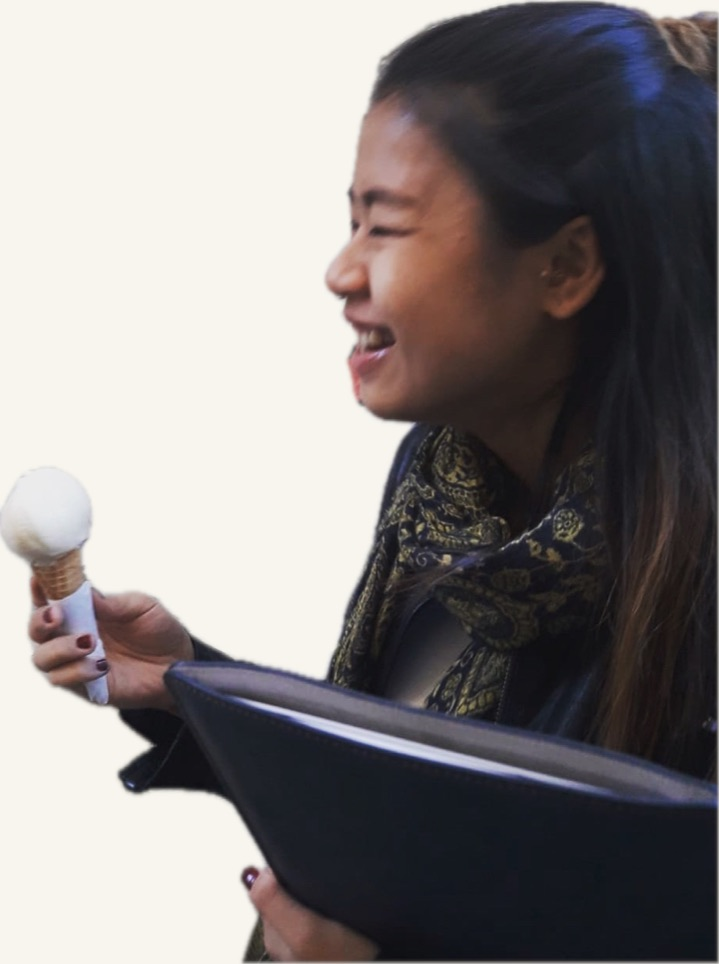
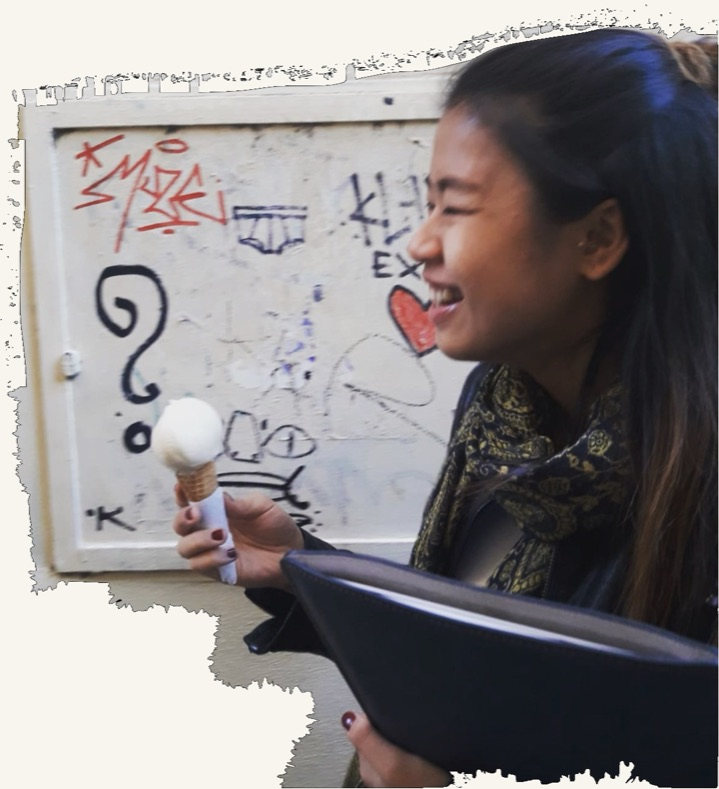
feat(about): use Echo's torn-edge cut of the hero, and her heading
She cut the photograph herself with a torn edge, which is a better answer
than the radial fade and speaks the language the rest of the page already
uses: paper, tape, nothing rectangular.

Keying it needed scripts/floodkey.swift rather than a threshold. Her cut
arrives as black around the torn shape, and her hair and the dark bag are as
black as that surround, so a global luminance key punched holes straight
through both. Flooding IN from the border only clears dark pixels connected
to the outside, which leaves an enclosed dark region alone. Threshold 16:
at 42 it still ate the hair, because hair is not quite black but is close.

Composited onto this page's ground and shipped as a JPEG, 102KB. The page
holds one cream in both themes by design, so there is nothing to show
through and the alpha is not worth 600KB.

The heading is hers: "Behind the screen and matrix", capitalised and stopped
to match the page and otherwise untouched. It replaced the only place 2012
appeared, so that date moved into the first paragraph rather than leaving
the page with the sentence.

Two things removed on her call: the photograph's caption, since it is not
evidence of anything and does not need dating, and the rule above the
closing block, which was the one hard edge on a page built out of torn ones.

Claude-Session: https://claude.ai/code/session_01QGgfN5cZWKRdSW6FQvQch3

diff --git a/scripts/floodkey.swift b/scripts/floodkey.swift
@@ -1,0 +1,67 @@
+// Key a border colour to transparent by flooding IN from the edges, rather
+// than by thresholding the whole image.
+//
+// A global luminance key would work on the surround here but would also eat
+// her hair and the dark bag, which are as black as the background. Flooding
+// from the border only removes dark pixels CONNECTED to the outside, so an
+// enclosed dark region inside the torn edge is untouched.
+import Foundation
+import CoreGraphics
+import ImageIO
+import UniformTypeIdentifiers
+
+let args = CommandLine.arguments
+guard args.count >= 4 else {
+    FileHandle.standardError.write("usage: floodkey <in> <out.png> <threshold 0-255>\n".data(using: .utf8)!)
+    exit(2)
+}
+let threshold = Int(args[3]) ?? 40
+
+guard let srcData = CFDataCreate(nil, [UInt8](try Data(contentsOf: URL(fileURLWithPath: args[1]))), (try Data(contentsOf: URL(fileURLWithPath: args[1]))).count),
+      let provider = CGDataProvider(data: srcData),
+      let src = CGImage(jpegDataProviderSource: provider, decode: nil, shouldInterpolate: false, intent: .defaultIntent)
+        ?? CGImage(pngDataProviderSource: provider, decode: nil, shouldInterpolate: false, intent: .defaultIntent) else {
+    FileHandle.standardError.write("cannot decode\n".data(using: .utf8)!); exit(1)
+}
+
+let w = src.width, h = src.height
+var px = [UInt8](repeating: 0, count: w * h * 4)
+guard let ctx = CGContext(data: &px, width: w, height: h, bitsPerComponent: 8, bytesPerRow: w * 4,
+                          space: CGColorSpaceCreateDeviceRGB(),
+                          bitmapInfo: CGImageAlphaInfo.premultipliedLast.rawValue) else { exit(1) }
+ctx.draw(src, in: CGRect(x: 0, y: 0, width: w, height: h))
+
+func dark(_ i: Int) -> Bool {
+    let r = Int(px[i * 4]), g = Int(px[i * 4 + 1]), b = Int(px[i * 4 + 2])
+    return (r * 299 + g * 587 + b * 114) / 1000 <= threshold
+}
+
+var outside = [Bool](repeating: false, count: w * h)
+var stack: [Int] = []
+for x in 0..<w {
+    for y in [0, h - 1] { let i = y * w + x; if dark(i) && !outside[i] { outside[i] = true; stack.append(i) } }
+}
+for y in 0..<h {
+    for x in [0, w - 1] { let i = y * w + x; if dark(i) && !outside[i] { outside[i] = true; stack.append(i) } }
+}
+while let i = stack.popLast() {
+    let x = i % w, y = i / w
+    for (dx, dy) in [(1, 0), (-1, 0), (0, 1), (0, -1)] {
+        let nx = x + dx, ny = y + dy
+        guard nx >= 0, nx < w, ny >= 0, ny < h else { continue }
+        let j = ny * w + nx
+        if !outside[j] && dark(j) { outside[j] = true; stack.append(j) }
+    }
+}
+
+var cleared = 0
+for i in 0..<(w * h) where outside[i] {
+    px[i * 4] = 0; px[i * 4 + 1] = 0; px[i * 4 + 2] = 0; px[i * 4 + 3] = 0
+    cleared += 1
+}
+
+guard let outImg = ctx.makeImage(),
+      let dest = CGImageDestinationCreateWithURL(URL(fileURLWithPath: args[2]) as CFURL, UTType.png.identifier as CFString, 1, nil) else { exit(1) }
+CGImageDestinationAddImage(dest, outImg, nil)
+CGImageDestinationFinalize(dest)
+print("cleared \(cleared) of \(w * h) px (\(cleared * 100 / (w * h))%)")

diff --git a/src/content/about.config.ts b/src/content/about.config.ts
@@ -11,10 +11,16 @@
 // paints, with work from January 2026, so nothing here says "used to".
 export const aboutConfig = {
   kicker: "Chun-Yu (Echo) Shih",
-  heading: "I have been painting since 2012.",
+  // Echo's line. Capitalised and stopped to match the page, otherwise her
+  // words exactly.
+  //
+  // It replaced "I have been painting since 2012.", which was the only place
+  // that date appeared, so the date moved into the first paragraph rather
+  // than leaving the page.
+  heading: "Behind the screen and matrix.",
 
   story: [
-    "Mostly in Tainan. I studied Italian language and culture at Fu Jen Catholic University in Taipei, and after I finished I spent three months at Accademia del Giglio in Florence.",
+    "I have been painting since 2012, mostly in Tainan. I studied Italian language and culture at Fu Jen Catholic University in Taipei, and after I finished I spent three months at Accademia del Giglio in Florence.",
     "The clay bust, the pasta painting and the charcoal head were made there. The ink drawing of a mouth was made on a plane, and the airport is Jakarta.",
   ],
 
@@ -27,12 +33,11 @@ export const aboutConfig = {
   // so nothing needs to show through, and the PNG cost 627KB against 71KB
   // for a file that looks the same.
   //
-  // The date is the photograph's own capture date. The place is not stated,
-  // because she has not confirmed it.
+  // No caption. The photograph is not evidence of anything and does not need
+  // dating: it is her, and that is the whole job.
   portrait: {
     src: "assets/echo-florence.jpg",
-    alt: "Echo laughing, holding a gelato",
-    caption: "October 2018",
+    alt: "Echo laughing, holding a gelato, in front of a graffitied wall",
   },
 
   galleryHeading: "The work",

diff --git a/src/routes/about/+page.svelte b/src/routes/about/+page.svelte
@@ -27,12 +27,11 @@
         <img
           src="{base}/{aboutConfig.portrait.src}"
           alt={aboutConfig.portrait.alt}
-          width="720"
-          height="964"
+          width="719"
+          height="789"
           draggable="false"
           decoding="async"
         />
-        <figcaption class="mono">{aboutConfig.portrait.caption}</figcaption>
       </figure>
     </div>
   </section>
@@ -174,20 +173,14 @@
     user-select: none;
   }
 
-  .portrait figcaption {
-    margin-top: 0.7rem;
-    font-size: 0.65rem;
-    letter-spacing: 0.1em;
-    text-transform: uppercase;
-    color: var(--text-muted);
-  }
-
+  /* No rule above this. The page is built out of torn edges and tape, so a
+     crisp 1px line before the signature was the one hard edge on it. */
   .closing {
     display: flex;
     flex-wrap: wrap;
     align-items: center;
     gap: 1rem;
-    border-top: 1px solid var(--section-border);
+    padding-top: 2.5rem;
   }
 
   .closing p {
